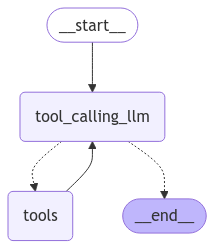
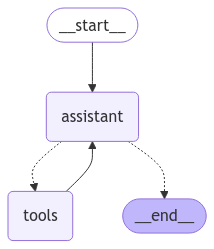
feat(agent): add agent memory module for arithmetic processing and message management

Changed region(s): [[0.0841, 0.3655, 0.785, 0.5904]]

diff --git a/module-1/agent-memory.py b/module-1/agent-memory.py
@@ -1,0 +1,152 @@
+# %%
+import os
+from langgraph_storage.checkpoint import MemorySaver
+import sympy
+import warnings
+from typing import Annotated
+from dotenv import load_dotenv
+from langgraph.graph import START, StateGraph
+from langgraph.prebuilt import ToolNode, tools_condition
+from pydantic import BaseModel, Field
+from langchain_openai import ChatOpenAI
+from langchain_core.messages import AnyMessage
+from langgraph.graph.message import add_messages
+from langchain.schema import HumanMessage, SystemMessage
+
+warnings.filterwarnings("ignore", category=UserWarning, module="pydantic")
+
+
+# %%
+def load_environment() -> None:
+    """Load environment variables into global namespace."""
+    load_dotenv()
+    for key, value in os.environ.items():
+        globals()[key] = value
+
+
+# %%
+def calculate(expression: str) -> float:
+    """
+    Safely evaluate a mathematical expression using sympy.
+
+    Args:
+        expression: A string containing a mathematical expression (e.g., "2*3+2")
+
+    Returns:
+        Result of evaluating the expression
+    """
+    try:
+        # Convert string expression to sympy expression and evaluate
+        result = sympy.sympify(expression)
+        return float(result.evalf())
+    except (sympy.SympifyError, ValueError) as e:
+        return f"Error: Invalid expression - {str(e)}"
+
+
+# %%
+"""State class for managing message flow in the graph."""
+
+
+def get_default_messages() -> list[AnyMessage]:
+    """Create default message list with system message."""
+    sys_msg = SystemMessage(
+        content="""You are a helpful assistant tasked with performing arithmetic on a set of inputs. 
+        If there are any math operations break them down in smaller parts before using the calculate tool function, 
+        the calculator is primitive and can not handle multiple BODMOS operations all at once do one operation at a time 
+        for e.g. multiply in one step then based on the result add or substract etc.
+        remember if there is any math based question then always use the calculate tool do not try to calculate on your own"""
+    )
+    return [sys_msg]
+
+
+class MessagesState(BaseModel):
+    messages: Annotated[list[AnyMessage], add_messages] = Field(
+        default_factory=get_default_messages,
+        description="List of messages in the conversation",
+    )
+
+
+# %%
+def setup_llm() -> ChatOpenAI:
+    """Initialize and configure LLM with tools."""
+    llm = ChatOpenAI(model=os.getenv("OPENAI_MODEL"))
+    llm_with_tools = llm.bind_tools([calculate], parallel_tool_calls=False)
+    return llm_with_tools
+
+
+# %%
+def assistant(state: MessagesState) -> MessagesState:
+    """Process messages through LLM with tool support."""
+    state.messages = llm_with_tools.invoke(state.messages)
+    return state
+
+
+# %%
+def build_graph() -> StateGraph:
+    """Construct and compile the message processing graph."""
+    builder = StateGraph(MessagesState)
+
+    # Add nodes
+    builder.add_node("assistant", assistant)
+    builder.add_node("tools", ToolNode([calculate]))
+
+    # Add edges
+    builder.add_edge(START, "assistant")
+    builder.add_conditional_edges("assistant", tools_condition)
+    builder.add_edge("tools", "assistant")
+
+    # Add memory
+    memory = MemorySaver()
+    return builder.compile(checkpointer=memory)
+
+
+# %%
+def save_graph_visualization(graph: StateGraph, filename: str = "graph.png") -> None:
+    """Save graph visualization to file."""
+    with open(filename, "wb") as f:
+        f.write(graph.get_graph().draw_mermaid_png())
+
+
+# %%
+# Initialize environment and LLM
+load_environment()
+llm_with_tools = setup_llm()
+
+# Build and save graph
+graph = build_graph()
+save_graph_visualization(graph)
+
+# Configuaration for the graph thread
+config = {"configurable": {"thread_id": "1"}}
+
+# %%
+# Example usage
+messages = [
+    HumanMessage(
+        content="""A company has a tiered bonus system for its employees. The bonus is calculated as follows:
+        Tier 1: For sales between $10,000 and $20,000, employees earn a 5 percent bonus on the amount exceeding $10,000.
+        Tier 2: For sales between $20,001 and $50,000, employees earn the Tier 1 bonus, plus 8 percent of the amount exceeding $20,000.
+        Tier 3: For sales above $50,000, employees earn the Tier 1 and Tier 2 bonuses, plus 12 percent of the amount exceeding $50,000.
+        Calculate the total bonus for an employee with sales of $65,750."""
+    )
+]
+result = graph.invoke({"messages": messages}, config)
+
+# Print results
+for message in result.get("messages", []):
+    message.pretty_print()
+
+# %%
+messages = [
+    HumanMessage(
+        content="""The employee's sales were initially miscalculated. Their actual sales were $72,300. 
+        What is the difference in their bonus amount compared to the original calculation based on $65,750?"""
+    )
+]
+result = graph.invoke({"messages": messages}, config)
+
+# Print results
+for message in result.get("messages", []):
+    message.pretty_print()
+
+# %%
